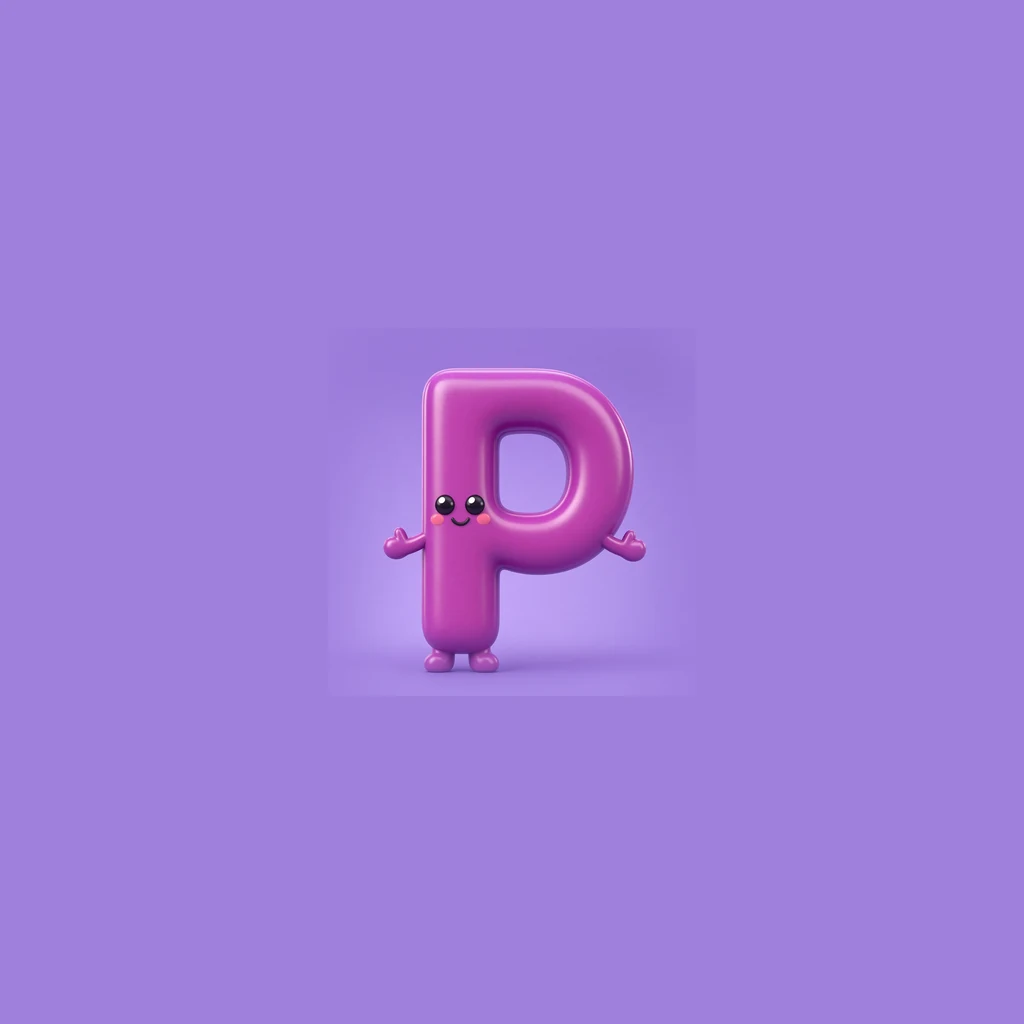
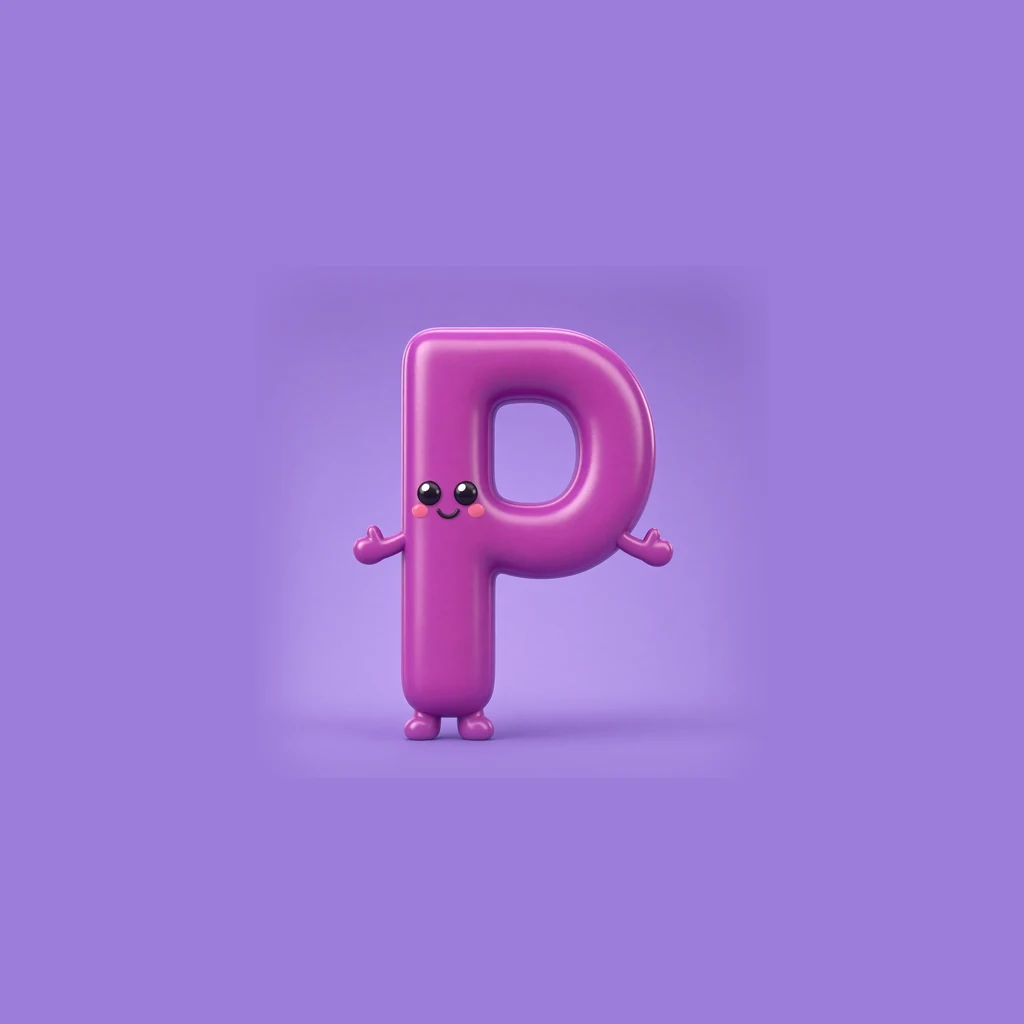
v0.173: little p trial — long stem, hangs below the line.

Changed region(s): [[0.3125, 0.3125, 0.6562, 0.75]]

diff --git a/src/lib/version.ts b/src/lib/version.ts
@@ -12,7 +12,7 @@
  * Grok Publish: still remind at v0.070, v0.080… so the public link can match.
  */
 
-export const APP_VERSION = "0.172";
+export const APP_VERSION = "0.173";
 export const APP_VERSION_LABEL = `v${APP_VERSION}`;
 export const APP_SLUG = "abc-adventure";
 export const APP_DISPLAY_NAME = "ABC Adventure";

diff --git a/SESSION.md b/SESSION.md
@@ -1,6 +1,6 @@
 # Session compact — ABC Adventure
 
-**Version:** v0.172  
+**Version:** v0.173  
 **GitHub:** sh4gu4dummy-arch/abc-adventure `main`  
 **User tests in Grok live preview**, not APK, unless they ask.
 
@@ -32,6 +32,9 @@ really is done. Tap to play again (v0.129).
 | H heart | Crayon with two points | One-tip crayon; look-at-the-clip QA (not a tip-count law) |
 
 A–Z word videos exist. J–Z remade to locked sentences; A–I older unless later patched (G, H, fish, frog, etc.).
+
+## Little p trial (v0.173)
+p only: longer stem, pinned high so the tail hangs (baseline cue). Icon + Meet.
 
 ## Little abc font (v0.172)
 Comic Neue instead of Sniglet ExtraBold — same single-story a, easier to read.

diff --git a/PROJECT.md b/PROJECT.md
@@ -113,7 +113,7 @@ npm run build:apk      # only when asked
 
 ## Versioning & downloads
 
-- **Current version:** `0.172` (`v0.172`) — stored in `VERSION` and `src/lib/version.ts` (keep in sync).
+- **Current version:** `0.173` (`v0.173`) — stored in `VERSION` and `src/lib/version.ts` (keep in sync).
 
 ## GitHub + Grok Publish cadence
 
